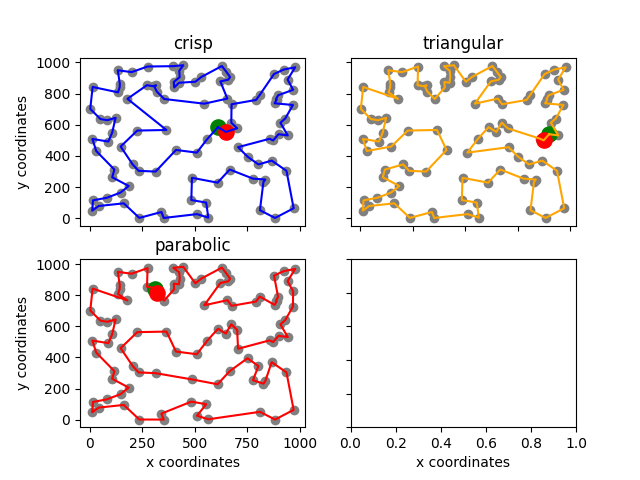
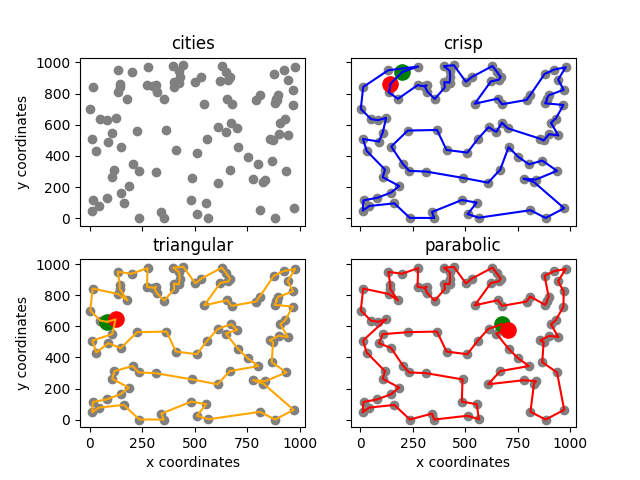
Update results picture

diff --git a/helpers.py b/helpers.py
@@ -200,7 +200,11 @@ def print_results(
     for ax in axs.flat:
         ax.label_outer()
     colors = ["blue", "orange", "red"]
-    plot_coords = [(0, 0), (0, 1), (1, 0)]
+    plot_coords = [(0, 1), (1, 0), (1, 1)]
+    all_cities_xs = [data.node_coords[i - city_shift][0] for i in data.get_nodes()]
+    all_cities_ys = [data.node_coords[i - city_shift][1] for i in data.get_nodes()]
+    axs[0, 0].set_title("cities")
+    axs[0, 0].scatter(all_cities_xs, all_cities_ys, color="grey")
     for idx, (fuzziness_type, route) in enumerate(routes_by_fuzziness_types.items()):
         crisp_sampling = estimate_average_route_distance(
             route, weights, "crisp", evaluations
